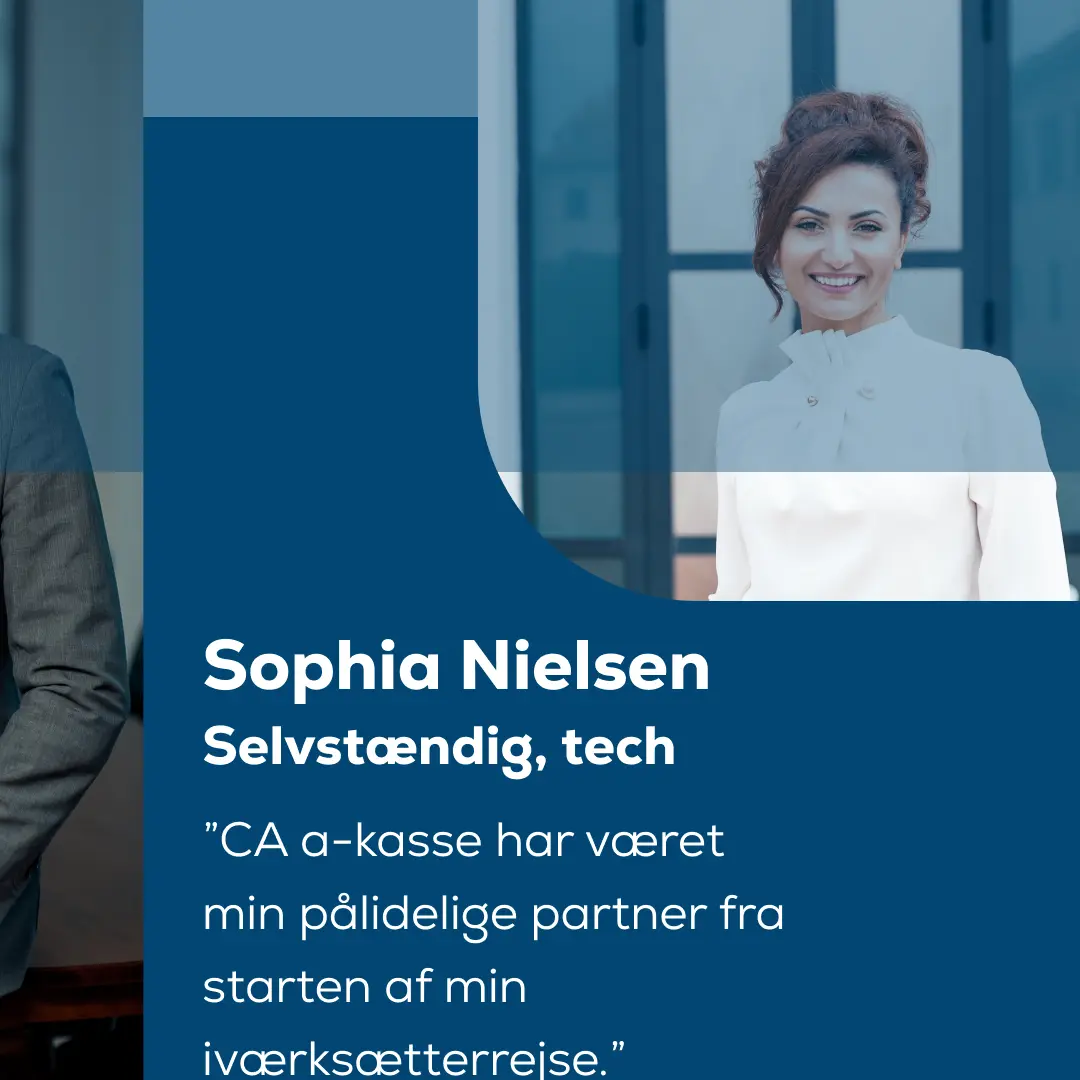
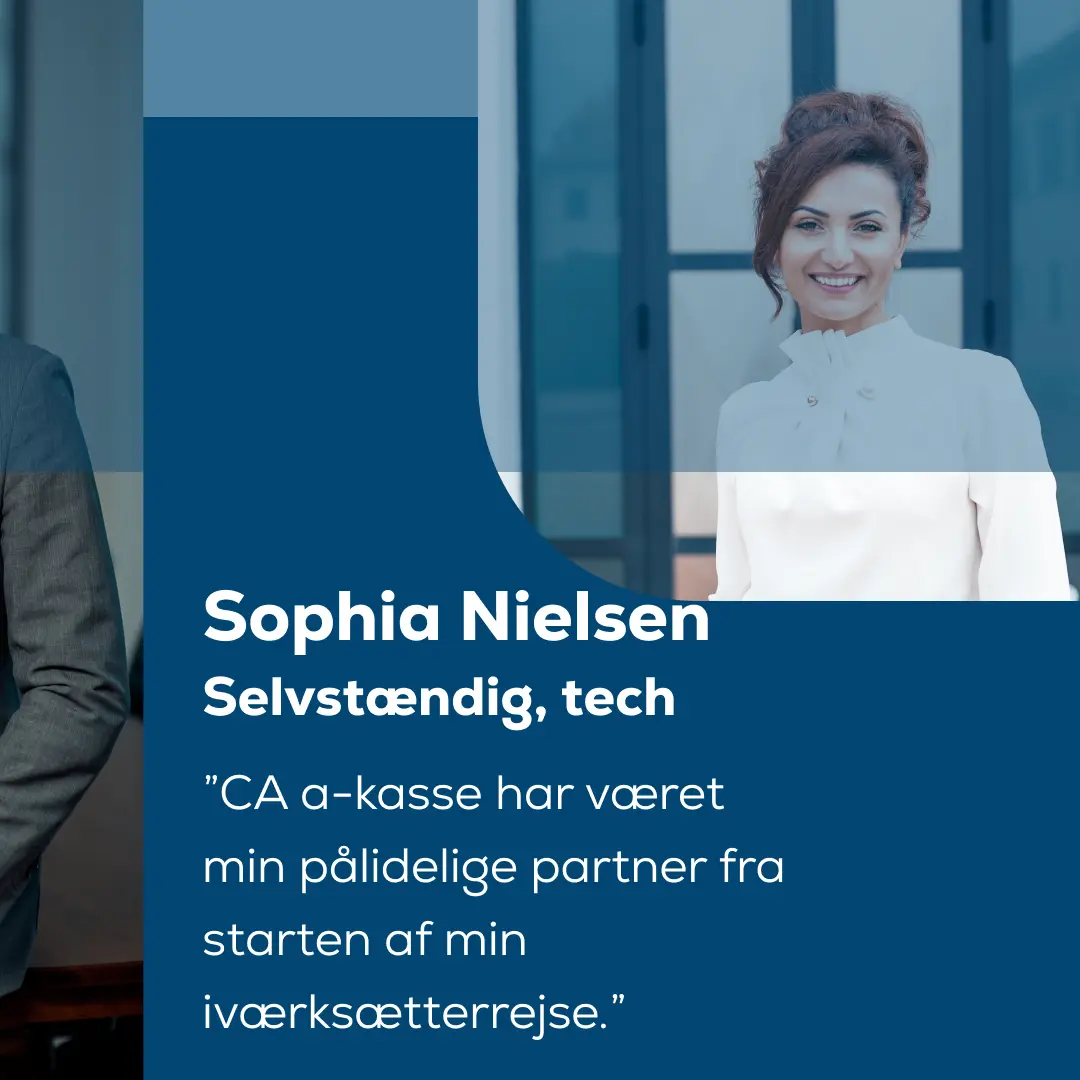
3

Changed region(s): [[0.1833, 0.55, 0.7333, 1.0]]

diff --git a/src/styles/mainstyle.css b/src/styles/mainstyle.css
@@ -69,10 +69,26 @@ p {
 	font-weight: 300;
 	font-size: 18px;
 	color: #4a4a4a;
+	max-width: 65ch;
 }
 
 a {
 	font-family: 'Nexabold', sans-serif;
 	font-size: 21px;
 	color: white;
+}
+
+@media (max-width: 1000px) {
+	h1 {
+		font-size: 35px;
+	}
+	h2 {
+		font-size: 30px;
+	}
+}
+
+@media (max-width: 600px) {
+	h1 {
+		font-size: 30px;
+	}
 }
